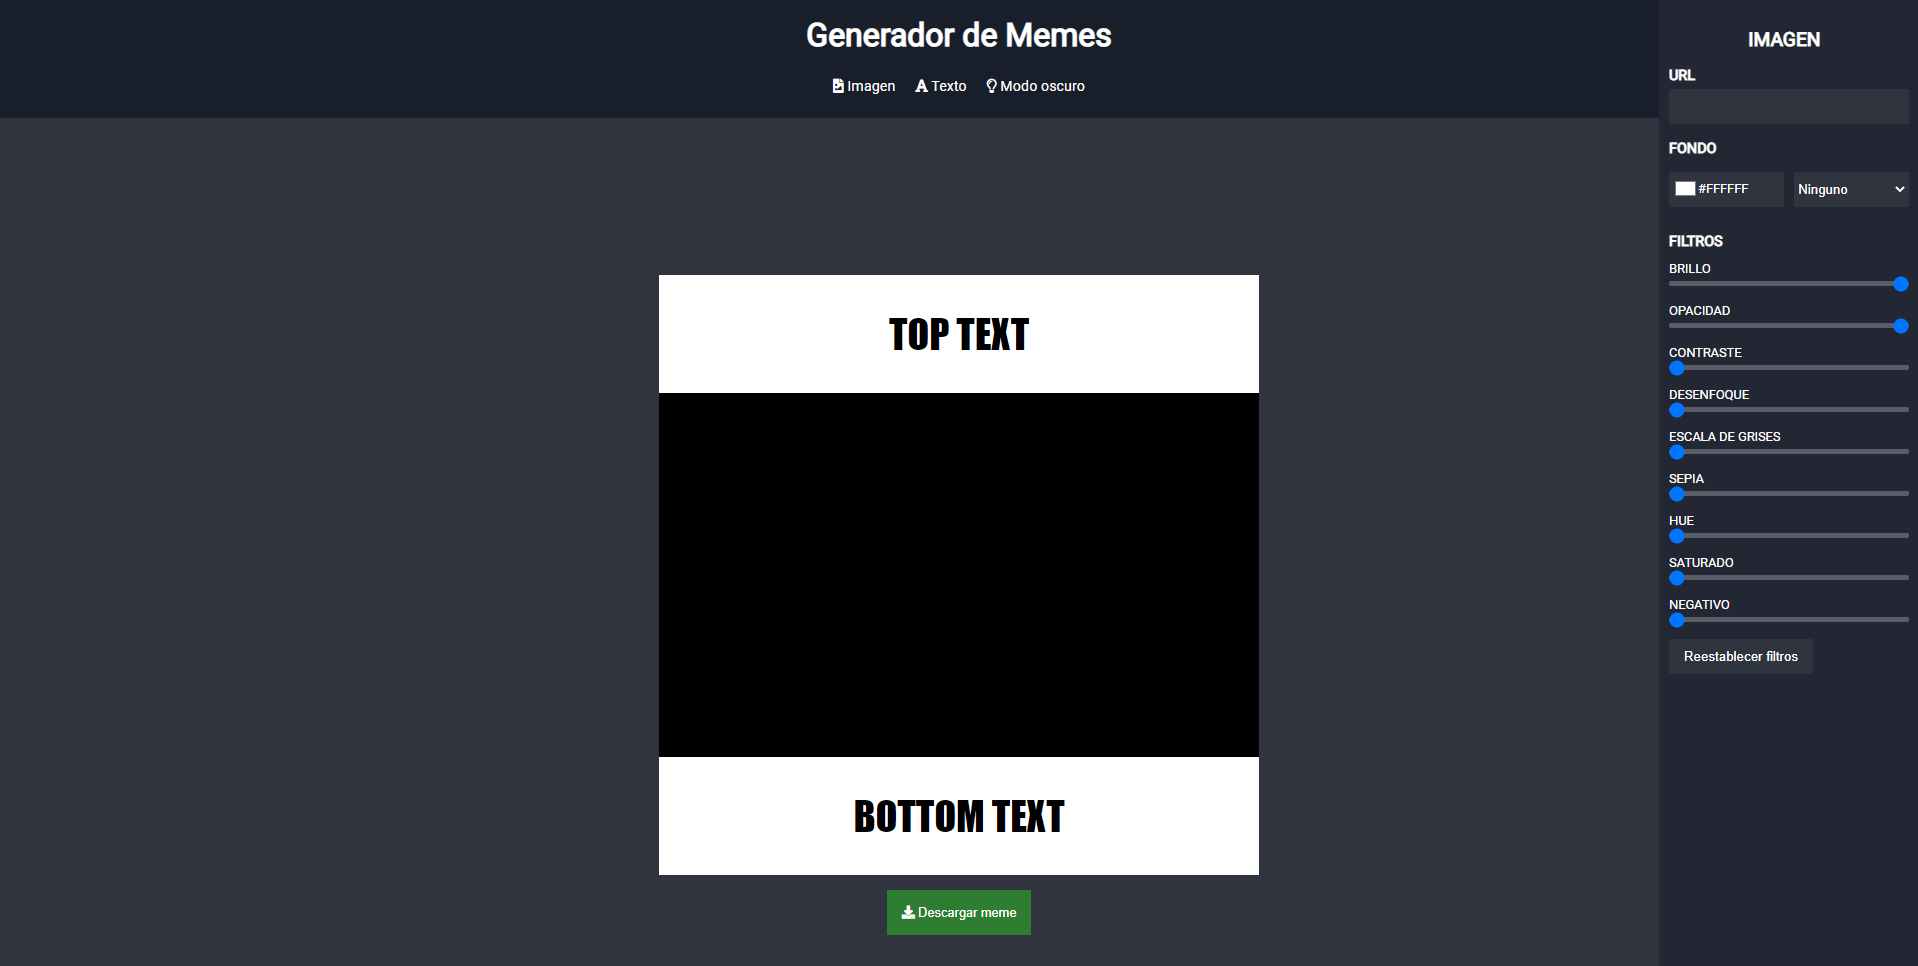
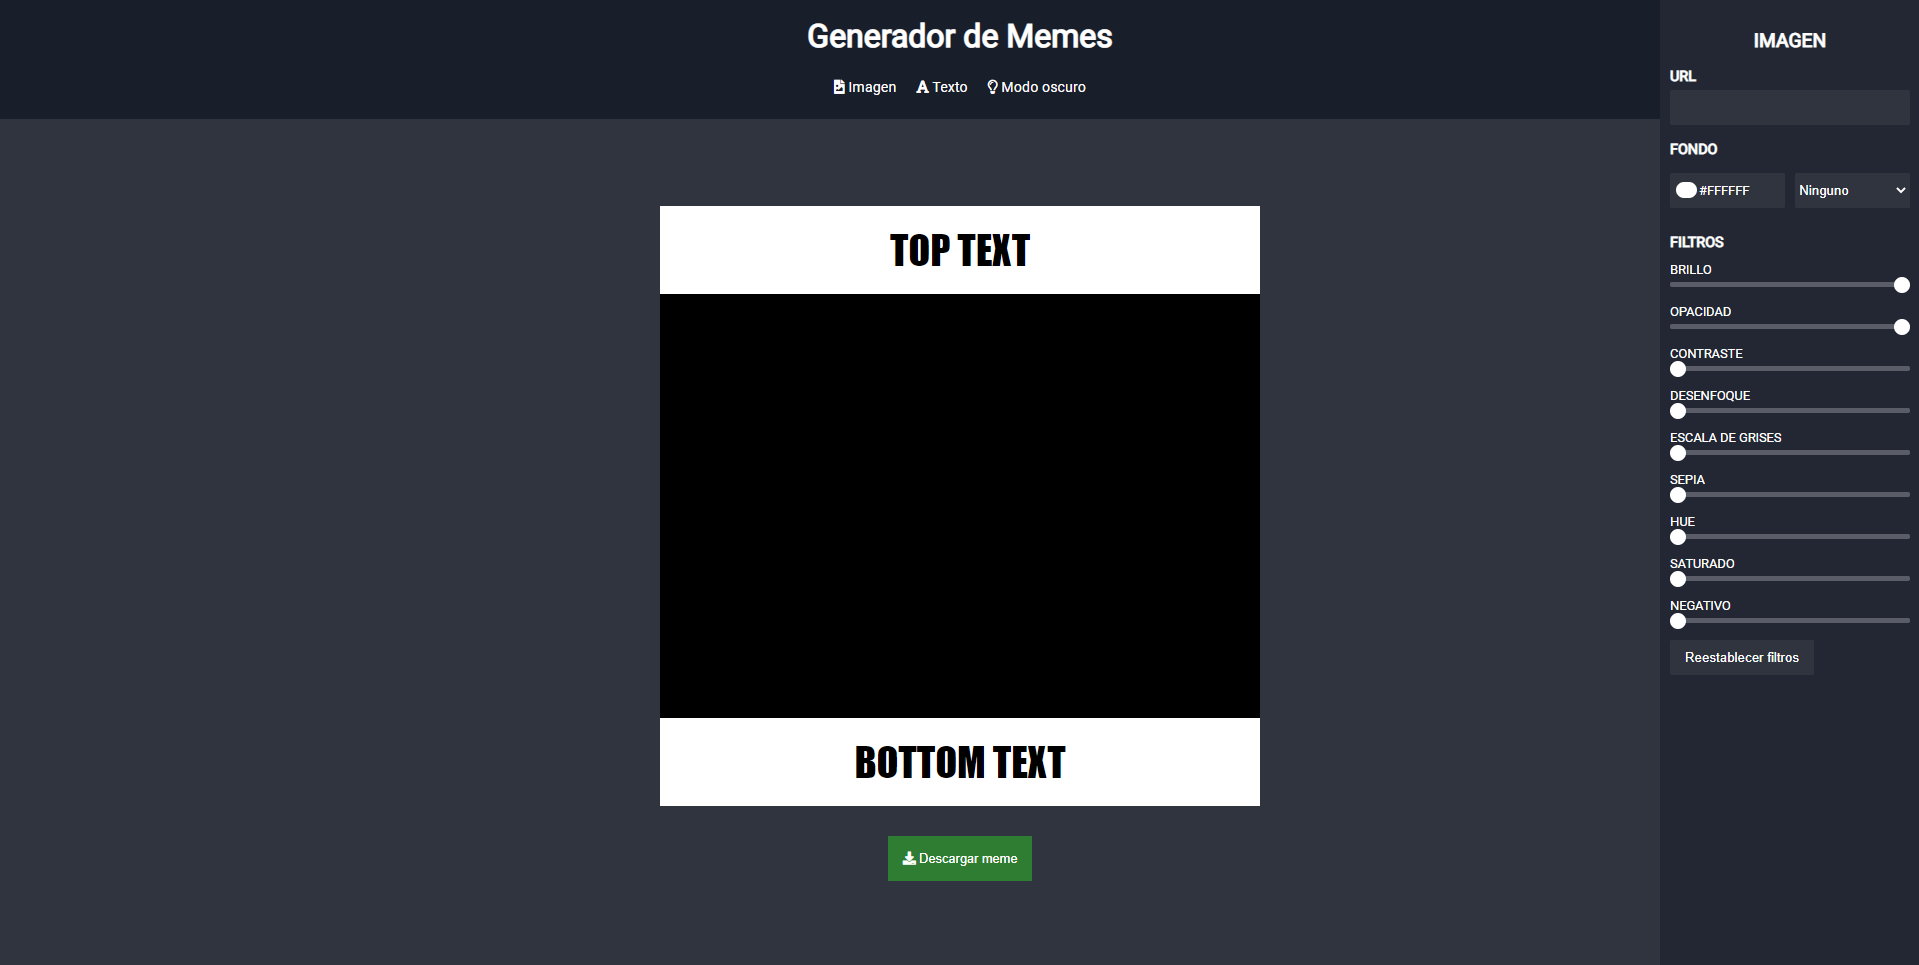
subiendo mejoras al responsive y correccion de funcionalidades de descarga

diff --git a/generador.css b/generador.css
@@ -55,7 +55,6 @@ li {
     height: 600px;
     background-color: black;
     position: relative;
-    top: 10px;
     display: flex;
     flex-direction: column;
 }
@@ -94,4 +93,25 @@ li {
     color: white;
     cursor: pointer;
     transition: background-color .2s;
+}
+
+@media screen and (max-width: 700px) {
+
+    header {
+        padding: 15px;
+    }
+
+    header h1 {
+        font-size: 1.6em;
+    }
+
+    .generator-meme {
+        width: 300px;
+        height: 300px;
+    }
+
+    .meme-text {
+        font-size: 20px;
+        padding: 6px 15px;
+    }
 }

diff --git a/index.html b/index.html
@@ -27,7 +27,7 @@
             <!--Seccion generador-->
             <section class="generator-background">
                     <!--Generador-->
-                    <div class="generator-meme">
+                    <div class="generator-meme" id="meme-generator">
                         <p class="meme-text" id="top-text">top text</p>
                         <div id="meme-img"></div>
                         <p class="meme-text" id="bottom-text">bottom text</p>

diff --git a/app.js b/app.js
@@ -91,7 +91,7 @@ closeBtn.addEventListener('click', () => {
 });
 
 descargar.addEventListener('click', (e) => {
-    domtoimage.toBlob(document.getElementById('meme-img'))
+    domtoimage.toBlob(document.getElementById('meme-generator'))
     .then(function (blob) {
         window.saveAs(blob, 'mi-meme.png');
     });

diff --git a/style.css b/style.css
@@ -76,5 +76,6 @@ select:focus, input:focus, button:focus, textarea:focus {
         display: block;
         width: 100%;
         padding: 30px 20px;
+        z-index: 3;
     }
 }
